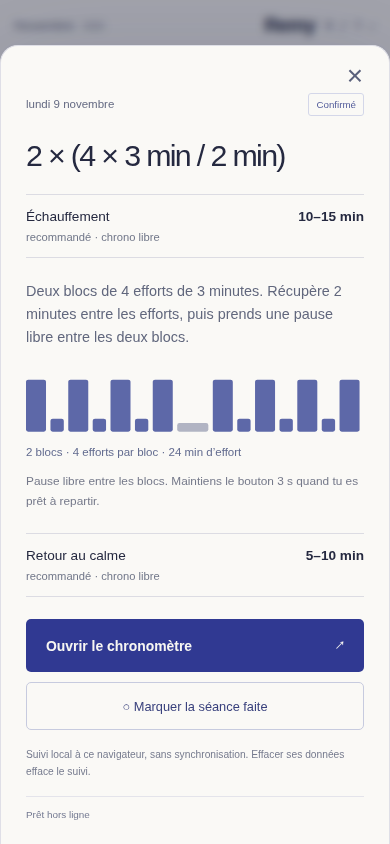
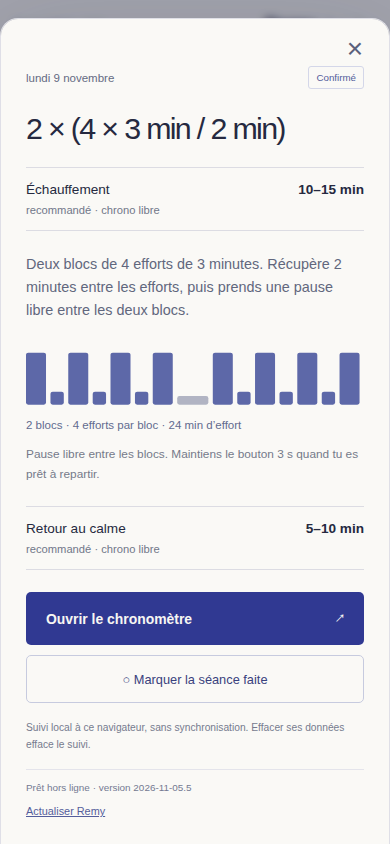
Corrige les strides et la mise à jour du calendrier hors ligne

Changed region(s): [[0.0615, 0.0924, 0.9538, 0.9858], [0.0, 0.0, 1.0, 0.154], [0.7692, 0.2156, 0.9231, 0.2773]]

diff --git a/app.js b/app.js
@@ -12,6 +12,31 @@ let data, selected, timer, activeDay, locked = false, screenOpen = false, wake =
 let audio, hold = null, savedAt = 0, lastPhase = '', storageAvailable = true;
 let wakeNote = 'Écran éveillé non garanti', restoreNotice = '';
 let wakeEpoch = 0;
+const APP_BUILD=document.querySelector('meta[name="remy-build"]')?.content;
+let registration, pendingVersion='', reloading=false, updateCheck;
+function applyPendingUpdate(){
+  if(!pendingVersion||pendingVersion===APP_BUILD||!data||screenOpen||document.hidden||reloading)return;
+  reloading=true;timer?.tick();save();location.reload();
+}
+function receiveVersion(event){
+  if(event.data?.type!=='REMY_VERSION')return;
+  event.ports?.[0]?.postMessage({handled:true});
+  if(event.source&&event.source!==navigator.serviceWorker.controller)return;
+  if(event.data.version===APP_BUILD){pendingVersion='';return;}
+  if(event.data.version!==APP_BUILD){pendingVersion=event.data.version;if(screenOpen)message('Mise à jour prête. Elle s’appliquera au retour à la fiche.');else queueMicrotask(applyPendingUpdate);}
+}
+function askWorkerVersion(){navigator.serviceWorker.controller?.postMessage({type:'REMY_HELLO'});}
+async function checkForUpdates(){
+  if(!registration||document.hidden||!navigator.onLine)return;
+  if(!updateCheck)updateCheck=registration.update().catch(()=>{}).finally(()=>{updateCheck=null;askWorkerVersion();});
+  await updateCheck;
+}
+if('serviceWorker' in navigator){
+  navigator.serviceWorker.addEventListener('message',receiveVersion);
+  navigator.serviceWorker.addEventListener('controllerchange',askWorkerVersion);
+}
+window.addEventListener('online',checkForUpdates);
+setInterval(checkForUpdates,60000);
 function readSaved(key = selected?.date) { try { return JSON.parse(localStorage.getItem(`${STORE}.${key}`)); } catch { return null; } }
 function save() {
   if (!timer) return;
@@ -37,7 +62,7 @@ function workoutGraph(day,detail=false) {
       for(let r=0;r<w.reps;r++) {bars.push({height:24,width:w.effortSeconds/20});if(r<w.reps-1)bars.push({height:6,width:w.recoverySeconds/20});}
     }
   } else if(w.type==='easy-strides') {
-    for(let i=0;i<w.strideCount;i++){bars.push({height:7,width:12},{height:23,width:4});}
+    for(let i=0;i<w.strideCount;i++){bars.push({height:7,width:12},{height:23,width:w.strideSeconds/5});}
   } else if(w.type==='jog') bars=[{height:10,width:100}];
   else bars=buildPhases(w).map(p=>({height:['effort','stride'].includes(p.kind)?24:7,width:Math.max(3,(p.seconds||0)/20)}));
   let x=0;const shapes=bars.map(v=>{const rect=`<rect x="${x}" y="${28-v.height}" width="${v.width}" height="${v.height}" rx="1"${v.gap?' class="graph-gap"':''}/>`;x+=v.width+2;return rect;}).join('');
@@ -96,7 +121,7 @@ function closeDay() {
 }
 function returnToCalendar() {
   closeDay(); history.replaceState(null,'','#calendar');
-  document.querySelector(`[data-day="${selected.date}"]`)?.focus();
+  document.querySelector(`[data-day="${selected.date}"]`)?.focus();applyPendingUpdate();
 }
 function openTimer(day) {
   if (!day?.workout) return;
@@ -134,6 +159,7 @@ function route() {
     if(m[1] === 'chrono' && target.workout) {selectDay(target.date);openTimer(target);}
     else openDay(target);
   } else closeDay();
+  applyPendingUpdate();
 }
 async function fullscreen() {
   if (document.fullscreenElement === $('timer-screen')) return;
@@ -248,21 +274,24 @@ $('day-dialog').addEventListener('cancel',e=>{e.preventDefault();returnToCalenda
 $('day-dialog').addEventListener('click',e=>{if(e.target===$('day-dialog')){const r=$('day-dialog').getBoundingClientRect();if(e.clientX<r.left||e.clientX>r.right||e.clientY<r.top||e.clientY>r.bottom)returnToCalendar();}});
 window.addEventListener('hashchange',()=>data&&route());
 window.addEventListener('blur',cancelHold);
-document.addEventListener('visibilitychange',()=>{cancelHold();if(timer){timer.tick();save();renderTimer();}syncWake();});
+document.addEventListener('visibilitychange',()=>{cancelHold();if(timer){timer.tick();save();renderTimer();}syncWake();if(!document.hidden){checkForUpdates();applyPendingUpdate();}});
 window.addEventListener('pagehide',()=>{cancelHold();timer?.tick();save();});
-window.addEventListener('pageshow',()=>{timer?.tick();renderTimer();syncWake();});
+window.addEventListener('pageshow',()=>{timer?.tick();renderTimer();syncWake();checkForUpdates();applyPendingUpdate();});
 document.addEventListener('keydown',e=>{if(screenOpen&&e.key==='Escape'&&(locked||timer?.state.running)){e.preventDefault();message('Déverrouille et mets en pause pour revenir au calendrier.');}});
 setInterval(()=>{renderTimer();paintHold();},100);
 async function offlineSetup(){
   if(!('serviceWorker' in navigator)||!window.isSecureContext){$('offline-status').textContent='Hors ligne non disponible ici';return;}
+  const readyText=()=>`Prêt hors ligne · version ${data.revision}`;
   let ready=false;
   try{
     const previous=await navigator.serviceWorker.getRegistration();
-    if(previous?.active){ready=true;$('offline-status').textContent='Prêt hors ligne';}
-    await navigator.serviceWorker.register('./sw.js');await navigator.serviceWorker.ready;
-    $('offline-status').textContent='Prêt hors ligne';
+    if(previous?.active){ready=true;$('offline-status').textContent=readyText();}
+    registration=await navigator.serviceWorker.register('./sw.js',{updateViaCache:'none'});
+    await navigator.serviceWorker.ready;
+    $('offline-status').textContent=readyText();askWorkerVersion();checkForUpdates();
   } catch{if(!ready)$('offline-status').textContent='Hors ligne non préparé';}
 }
+
 try {
   const response=await fetch('./schedule.json');if(!response.ok)throw Error();data=await response.json();
   const today=new Date(); const todayKey=`${today.getFullYear()}-${String(today.getMonth()+1).padStart(2,'0')}-${String(today.getDate()).padStart(2,'0')}`;

diff --git a/sw.js b/sw.js
@@ -1,10 +1,51 @@
-// Generated content version: npm run prepare:offline. One atomic cache per release.
-const VERSION = 'remy-49ba0b2e762a19c1';
-const FILES = ['./','./index.html','./style.css','./app.js','./engine.js','./schedule.json','./icon.svg','./icon-192.png','./icon-512.png','./manifest.webmanifest'];
-self.addEventListener('install',event=>{event.waitUntil(caches.open(VERSION).then(cache=>cache.addAll(FILES)));});
-// No skipWaiting: an active workout keeps its current, coherent release.
-self.addEventListener('activate',event=>{event.waitUntil((async()=>{for(const key of await caches.keys())if(key.startsWith('remy-')&&key!==VERSION)await caches.delete(key);await self.clients.claim();})());});
+// Generated build identity includes this worker and every static resource.
+const VERSION = 'remy-3a71922d8d44545f';
+const SCOPE = new URL(self.registration.scope);
+const CACHE = `${VERSION}@${SCOPE.pathname}`;
+const FILES = ['./','./index.html','./mise-a-jour.html','./style.css','./app.js','./engine.js','./schedule.json','./icon.svg','./icon-192.png','./icon-512.png','./manifest.webmanifest'];
+self.addEventListener('install',event=>event.waitUntil((async()=>{
+  // Fetch the complete release before activating; never reuse HTTP-cached assets.
+  const entries=await Promise.all(FILES.map(async path=>{
+    const target=new URL(path,SCOPE),fresh=new URL(target);fresh.searchParams.set('remy-build',VERSION);
+    const response=await fetch(fresh,{cache:'no-store'});
+    if(!response.ok)throw new Error(`Release incomplete: ${path}`);
+    return [target.href,response];
+  }));
+  const cache=await caches.open(CACHE);
+  await Promise.all(entries.map(([url,response])=>cache.put(url,response)));
+  await self.skipWaiting();
+})()));
+function inScope(url){return url.startsWith(SCOPE.href);}
+async function announce(client){
+  const handled=await new Promise(resolve=>{
+    const channel=new MessageChannel();
+    const timeout=setTimeout(()=>{channel.port1.close();resolve(false);},1200);
+    channel.port1.onmessage=event=>{clearTimeout(timeout);channel.port1.close();resolve(event.data?.handled===true);};
+    client.postMessage({type:'REMY_VERSION',version:VERSION},[channel.port2]);
+  });
+  // Do not await navigate() inside activate: its navigation waits for this
+  // worker to finish activating.
+  // Legacy pages cannot handle the new update message. Refresh their calendar,
+  // but never interrupt a timer that might still be running in an older release.
+  if(!handled){const current=await self.clients.get(client.id);if(current&&inScope(current.url)&&!new URL(current.url).hash.startsWith('#chrono='))void current.navigate(current.url).catch(()=>{});}
+}
+self.addEventListener('activate',event=>event.waitUntil((async()=>{
+  await self.clients.claim();
+  await Promise.all((await self.clients.matchAll({type:'window',includeUncontrolled:true})).filter(c=>inScope(c.url)).map(c=>announce(c).catch(()=>{})));
+  // Only prune this scope's versioned caches. Never clear localStorage or
+  // unscoped legacy caches that could belong to another application.
+  for(const key of await caches.keys())if(key!==CACHE&&key.startsWith('remy-')&&key.endsWith(`@${SCOPE.pathname}`))await caches.delete(key);
+})()));
+self.addEventListener('message',event=>{
+  if(event.data?.type==='REMY_HELLO')event.source?.postMessage({type:'REMY_VERSION',version:VERSION});
+});
 self.addEventListener('fetch',event=>{
-  if(event.request.method!=='GET'||new URL(event.request.url).origin!==self.location.origin)return;
-  event.respondWith((async()=>{const cache=await caches.open(VERSION);const match=await cache.match(event.request,{ignoreSearch:true});if(match)return match;return fetch(event.request);})());
+  if(event.request.method!=='GET'||!inScope(event.request.url))return;
+  event.respondWith((async()=>{
+    const cache=await caches.open(CACHE);
+    if(new URL(event.request.url).pathname===new URL('mise-a-jour.html',SCOPE).pathname){
+      try {const fresh=new URL(event.request.url);fresh.searchParams.set('actualiser',Date.now());const response=await fetch(fresh,{cache:'no-store'});if(response.ok)return response;} catch {}
+    }
+    return await cache.match(event.request,{ignoreSearch:true})||fetch(event.request);
+  })());
 });

diff --git a/mise-a-jour.html b/mise-a-jour.html
@@ -1,0 +1,23 @@
+<!doctype html>
+<html lang="fr-CA">
+<head>
+<meta charset="utf-8"><meta name="viewport" content="width=device-width,initial-scale=1">
+<meta name="remy-build" content="remy-3a71922d8d44545f"><title>Actualiser Remy</title>
+<style>body{margin:0;padding:32px;font:16px/1.6 Arial,sans-serif;background:#f5f4f0;color:#252940}main{max-width:480px;margin:12vh auto}h1{font-size:28px;letter-spacing:-1px}a{color:#303992}p{margin:20px 0}</style>
+</head>
+<body><main><h1>Actualisation de Remy</h1><p id="status" role="status">Recherche de la dernière version… Tes séances faites sont conservées.</p><a href="./">Retour au calendrier</a></main>
+<script type="module">
+const expected=document.querySelector('meta[name="remy-build"]').content,status=document.getElementById('status');
+let finished=false,interval,timeout;
+function done(){if(finished)return;finished=true;clearInterval(interval);clearTimeout(timeout);location.replace('./');}
+if('serviceWorker' in navigator&&window.isSecureContext){
+  navigator.serviceWorker.addEventListener('message',event=>{if(event.data?.type==='REMY_VERSION'){event.ports?.[0]?.postMessage({handled:true});if(event.data.version===expected)done();}});
+  const ask=()=>navigator.serviceWorker.controller?.postMessage({type:'REMY_HELLO'});
+  navigator.serviceWorker.addEventListener('controllerchange',ask);
+  try {
+    const registration=await navigator.serviceWorker.register('./sw.js',{updateViaCache:'none'});
+    await registration.update();await navigator.serviceWorker.ready;ask();
+    if(!finished){interval=setInterval(ask,500);timeout=setTimeout(()=>{clearInterval(interval);status.textContent='La mise à jour n’a pas terminé. Vérifie ta connexion et recharge cette page. Tes séances faites sont conservées.';},15000);}
+  } catch {status.textContent='Une connexion est nécessaire pour actualiser Remy. Tes séances faites sont conservées.';}
+} else status.textContent='Ouvre cette adresse dans Chrome avec une connexion pour actualiser Remy.';
+</script></body></html>

diff --git a/index.html b/index.html
@@ -3,6 +3,7 @@
 <head>
   <meta charset="utf-8">
   <meta name="viewport" content="width=device-width, initial-scale=1, viewport-fit=cover">
+  <meta name="remy-build" content="remy-3a71922d8d44545f">
   <meta name="theme-color" content="#f5f4f0">
   <meta name="description" content="Le carnet de course de Remy. Calendrier et chronomètre pour l’Oxford Cup du 21 novembre 2026.">
   <title>Remy — Calendrier</title>
@@ -26,6 +27,7 @@
     <button id="close-day" class="close-day" type="button" aria-label="Retour au calendrier">×</button>
     <article id="day-detail" class="day-detail"></article>
     <p id="offline-status" class="connection">Préparation hors ligne…</p>
+    <a class="update-link" href="./mise-a-jour.html">Actualiser Remy</a>
   </dialog>
   <section id="timer-screen" class="timer-screen" hidden aria-labelledby="phase-label" data-kind="easy">
     <header class="timer-header"><button id="close-timer" class="quiet" type="button">← Séance</button><span id="timer-date"></span><button id="fullscreen" class="quiet" type="button">Plein écran ⛶</button></header>

diff --git a/style.css b/style.css
@@ -86,6 +86,7 @@
   .mark-done { width: 100%; margin-top: 10px; border: 1px solid #c7cbdf; border-radius: 5px; background: transparent; color: #39417d; font-size: .8rem; padding: 14px; }
   .mark-done.is-done { background: #e5e7f4; border-color: #8b92b9; }
   .button-caption { margin-top: 17px; font-size: .64rem; color: #767b8e; line-height: 1.65; }
+  .update-link { display:inline-block; font-size:.68rem; color:#545d9b; padding:12px 0 4px; }
   .connection { margin-top: 15px; padding-top: 12px; border-top: 1px solid #e4e4eb; font-size: .62rem; color: #747a92; }
   @media(max-width:600px) {
     .day-dialog { margin: auto 0 0; width: 100%; max-width: 100%; max-height: calc(100dvh - 18px); padding: 38px 25px max(24px,env(safe-area-inset-bottom)); border-radius: 18px 18px 0 0; border-bottom: 0; }

diff --git a/README.md b/README.md
@@ -37,14 +37,14 @@ Le plein écran et le maintien de l’écran éveillé restent à vérifier sur 
 | Sam. 7 | **40 min de jog**, avec 6 strides de **20 s** | Récupération libre |
 | Lun. 9 | 2 blocs de 4 × 3 min; 2 min entre répétitions; **24 min d’effort** | Échauffement recommandé 10–15 min, retour au calme recommandé 5–10 min; pause entre blocs libre |
 | Mer. 11 | 10 × 2 min; 1 min entre répétitions; **20 min d’effort** | Échauffement et retour au calme |
-| Sam. 14 | **45 min faciles**, incluant 6 accélérations de 10 s; récupération complète | Échauffement libre avant le départ manuel |
+| Sam. 14 | **45 min faciles**, incluant 6 strides de 20 s; récupération complète | Échauffement libre avant le départ manuel |
 | Dim. 15 | Repos | — |
 | Ven. 20 | 5 min Z1, 5 min Z3, 5 × (20 s Z4–Z5 + 40 s faciles), 5 min Z1 : **20 min** | Date confirmée par Eric après clarification |
 | Sam. 21 | Oxford Cup; chrono libre | Horaire exact; environ 4,8–5 km |
 
 Les autres journées restent ouvertes, sans séance inventée. Une séance le 16, un petit jog avec accélérations le 18 et du repos le 19 ont été évoqués sans confirmation. Les jogs en zone 1 seront ajoutés par Eric.
 
-Les accélérations du 14 durent toujours **10 secondes**, et celles du 7 **20 secondes**. Elles sont incluses dans le compte à rebours du jog. L’objectif reste six, avec des déclenchements supplémentaires permis. Aucun stride n’est lancé automatiquement. L’activation confirmée du 20 conserve exactement ses étapes et ses 20 minutes.
+Les strides des samedis **7 et 14 durent 20 secondes**. Le jog du 7 dure **40 minutes**, celui du 14 **45 minutes**. Elles sont incluses dans le compte à rebours du jog. L’objectif reste six, avec des déclenchements supplémentaires permis. Aucun stride n’est lancé automatiquement. L’activation confirmée du 20 conserve exactement ses étapes et ses 20 minutes.
 
 ## Lancer et vérifier
 
@@ -64,6 +64,7 @@ npm ci
 npx playwright install chromium
 npm run test:browser
 npm run test:mobile
+npm run test:update
 ```
 
 Un Chromium existant peut être choisi avec `CHROMIUM_PATH=/chemin/vers/chrome npm run test:browser`. Les captures vont dans `test-results/` (non versionné). Les tests utilisent des profils temporaires; ils ne touchent pas au suivi réel du navigateur de Remy.
@@ -80,11 +81,15 @@ Tout le calendrier est dans [`schedule.json`](schedule.json). Voir le [guide de 
 npm run prepare:offline
 npm test
 npm run check
-git add schedule.json sw.js
+git add schedule.json sw.js index.html mise-a-jour.html
 git commit -m "Précise la séance du 10 novembre"
 ```
 
-`prepare:offline` met à jour la version du cache d’après le contenu des fichiers. `check` refuse un cache périmé. Une nouvelle version attend la fermeture des anciennes fenêtres : pas de remplacement du programme au milieu d’un chrono. Après mise en ligne d’une modification, ouvrir le site connecté, fermer toutes ses fenêtres, puis le rouvrir pour activer la version en attente. Une séance modifiée ne reprend pas un ancien chrono incompatible. La nouvelle logique de résumé utilise une signature de version; un ancien chrono incompatible affiche un message et repart du début. Les coches de séances faites sont conservées.
+`prepare:offline` génère une identité cohérente pour le HTML et le cache, d’après les fichiers et le service worker. `check` refuse une version périmée. La mise à jour télécharge tous les fichiers avant de s’activer et contourne les anciennes réponses du cache HTTP.
+
+Le calendrier s’actualise automatiquement lorsque la nouvelle version est prête. Un chrono affiché reste sur sa version jusqu’au retour à la fiche. Les prochaines vérifications se font à l’ouverture, au retour sur la page, au retour du réseau et chaque minute lorsque la page est visible. Les coches ne sont jamais effacées par une mise à jour.
+
+Si une ancienne installation reste affichée, ouvrir **[Actualiser Remy](https://mixmasterkd.github.io/Remy/mise-a-jour.html)** avec une connexion. Ce lien conserve les données et retourne au calendrier. Ne pas effacer les données de Chrome pour mettre à jour le site. Une ancienne page de chrono qui ne connaît pas encore ce mécanisme doit d’abord être arrêtée ou mise en pause, puis rechargée. Une séance dont la prescription a changé ne reprend pas un ancien chrono incompatible; un message l’explique. Une mise à jour nécessite une connexion et ne peut pas être imposée à un téléphone resté hors ligne.
 
 ## Structure
 

diff --git a/docs/verification.md b/docs/verification.md
@@ -13,13 +13,25 @@ Captures : [calendrier](apercu-mobile.png), [fiche du 9](apercu-fiche.png), [chr
 
 ## Comportements précisés
 
-Le 5 lance un jog de 30 minutes; le 7 un jog de 40 minutes avec objectif de six strides de 20 secondes. Le 14 conserve 45 minutes et six accélérations de 10 secondes, précédées de l’échauffement libre demandé. Les séances futures avec répétitions reçoivent aussi un échauffement libre; l’activation du 20 conserve explicitement sa séquence existante.
+Le 5 lance un jog de 30 minutes; le 7 un jog de 40 minutes avec objectif de six strides de 20 secondes. Le 14 conserve 45 minutes et six strides de 20 secondes, précédées de l’échauffement libre demandé. Les séances futures avec répétitions reçoivent aussi un échauffement libre; l’activation du 20 conserve explicitement sa séquence existante.
 
 Le maintien de 3 secondes démarre les intervalles ou le bloc suivant sans déverrouiller les autres commandes. Le maintien de 1 seconde lance un stride même quand les commandes sont verrouillées. Pause et Stop demandent le déverrouillage habituel. Le compteur « strides effectués » compte les déclenchements; le résumé sépare les strides lancés, complétés et interrompus.
 
 À zéro, le jog devient gris et continue vers le haut jusqu’à Stop. Un stride déjà lancé conserve son second chrono jusqu’à sa fin; le fond reste gris en temps supplémentaire. Aucun nouveau stride ne peut être lancé après le compte à rebours du jog. Les deux variations de luminosité durent deux secondes au total, sans clignotement rapide, et respectent la préférence de réduction des animations.
 
 Les instantanés d’anciens chronos devenus incompatibles sont écartés avec un message explicite. Le suivi des séances faites conserve sa clé de stockage et n’est pas réinitialisé.
+
+## Correction des strides et migration du cache
+
+Correction confirmée par Eric : le 7 reste à 40 minutes, le 14 à 45 minutes; les deux ont six strides de 20 secondes. Le moteur, les fiches et les graphiques lisent ces mêmes données. Aucune autre prescription n’est modifiée.
+
+Le défaut de cache a été reproduit : avec le commit `6ab5284` actif et `8755ed8` en attente, recharger ne suffit pas; l’ancien calendrier de 15 cases reste affiché. Le service worker servait les anciens fichiers en priorité et attendait la fermeture de toutes les fenêtres pour activer la nouvelle version. Références du mécanisme : [activation immédiate contrôlée](https://developer.mozilla.org/en-US/docs/Web/API/ServiceWorkerGlobalScope/skipWaiting), [vérification des mises à jour](https://developer.mozilla.org/en-US/docs/Web/API/ServiceWorkerRegistration/update).
+
+La nouvelle version télécharge un ensemble complet avec des requêtes propres à sa version, s’active sans attendre la fermeture de toutes les fenêtres, puis actualise le calendrier. Les pages modernes reportent le rechargement pendant un chrono. Les anciennes pages ne répondant pas au nouveau protocole sont actualisées seulement si elles ne montrent pas de chrono. Le lien `mise-a-jour.html` permet aussi de quitter une ancienne installation sans effacer les données locales. La version est indiquée dans les fiches.
+
+**12 scénarios de migration réussis** simulent les deux anciens états, une mise à jour future avec chrono actif, une connexion coupée et un fichier manquant. Les coches et les chronos compatibles mis en pause sont conservés; une mise à jour incomplète laisse la version hors ligne précédente disponible. Les caches d’autres chemins et localStorage ne sont pas supprimés.
+
+La nouvelle apparence est vérifiée après migration en fenêtres **360×800** et **412×915** : trois colonnes, cases carrées, noms des jours, mini-graphiques des 9 et 11, mois discret. Captures : [avant migration](migration-avant.png), [après, 360 px](migration-360.png), [après, 412 px](migration-412.png). Il s’agit de simulations Chromium, pas d’une observation du Galaxy d’Eric.
 
 ## Référence GBoxeur et revue Astra
 

diff --git a/AGENTS.md b/AGENTS.md
@@ -7,6 +7,6 @@ Projet statique indépendant pour Remy. Lire README.md et docs/seances.md avant 
 - Français québécois, langage simple : jog facile, récupération, répétitions, accélérations.
 - Activation confirmée vendredi 20 novembre 2026; course samedi 21. La clarification du 5 novembre remplace l’ambiguïté antérieure.
 - Garder les données locales au navigateur et le fonctionnement hors ligne. Pas de compte ni de synchronisation implicite.
-- Ajustements Galaxy autorisés : calendrier du 5 au 21, grandes cases carrées; chrono gris/bleu ciel/vert/rouge selon phase. Recommandations du 9 : échauffement 10–15 min et retour au calme 5–10 min, sans transition automatique. Ne pas confondre les strides de 20 s du 7 avec ceux de 10 s du 14.
-- Après toute modification des fichiers du site à la racine, lancer npm run prepare:offline, npm test et npm run check. Pour un changement du chrono ou de navigation, lancer les essais navigateur et tactiles avec le serveur local.
+- Ajustements Galaxy autorisés : calendrier du 5 au 21, grandes cases carrées; chrono gris/bleu ciel/vert/rouge selon phase. Recommandations du 9 : échauffement 10–15 min et retour au calme 5–10 min, sans transition automatique. Correction d’Eric : les strides des 7 et 14 durent tous 20 s; conserver 40 min le 7 et 45 min le 14, objectif six.
+- Après toute modification des fichiers du site à la racine, lancer npm run prepare:offline, npm test et npm run check. Pour un changement du chrono ou de navigation, lancer les essais navigateur et tactiles avec le serveur local. Pour le cache, lancer aussi les migrations avec npm run test:update.
 - Eric a autorisé explicitement le 5 novembre 2026 le passage de mixmasterkd/Remy en public, historique compris, et GitHub Pages sur main / (root). Ne pas modifier la visibilité ou l’hébergement d’autres dépôts. Aucune modification de GBoxeur ou de CyberAS n’appartient à ce projet.

diff --git a/docs/seances.md b/docs/seances.md
@@ -35,6 +35,6 @@ Les séances `easy-strides` et les séances `steps` contenant des répétitions 
 2. Mettre à jour `revision` avec un identifiant lisible.
 3. Exécuter `npm run prepare:offline`, `npm test`, puis `npm run check`.
 4. Ouvrir la fiche et vérifier les libellés; si le comportement change, lancer aussi `npm run test:browser` et `npm run test:mobile`.
-5. Commiter les données et `sw.js` ensemble.
+5. Commiter les données, `sw.js`, `index.html` et `mise-a-jour.html` ensemble : leur identité de version est générée conjointement.
 
 Les tests initiaux décrivent les séances confirmées le 5 novembre 2026. Les ajuster lorsque les consignes confirmées changent. Les identifiants de cache se mettent à jour automatiquement avec `prepare:offline`.
